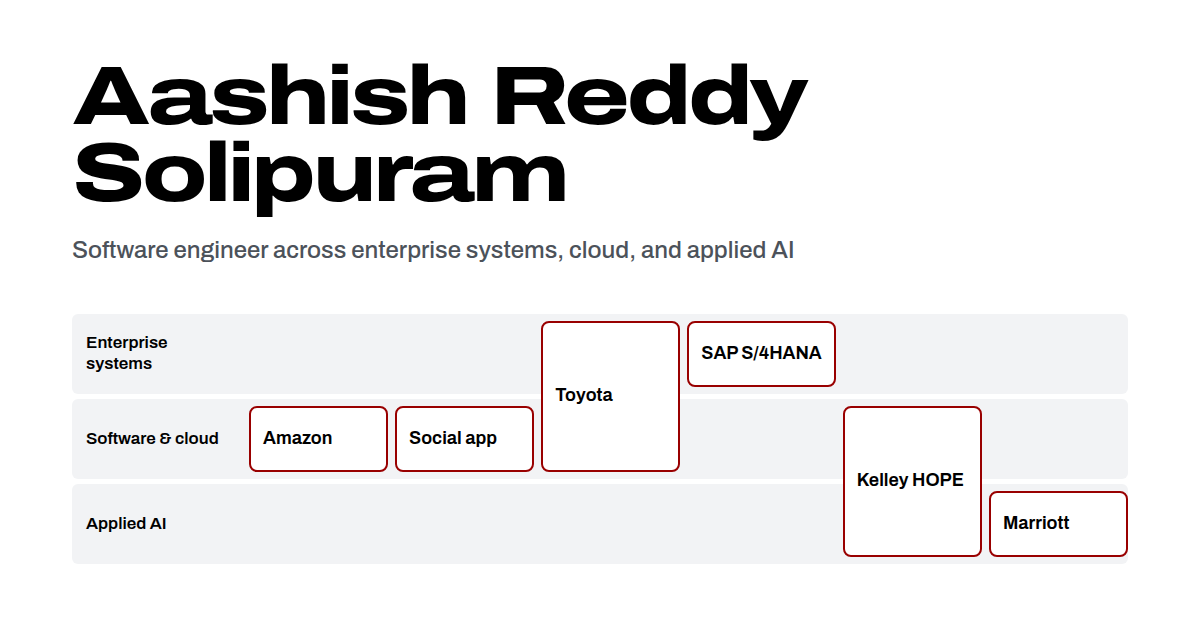
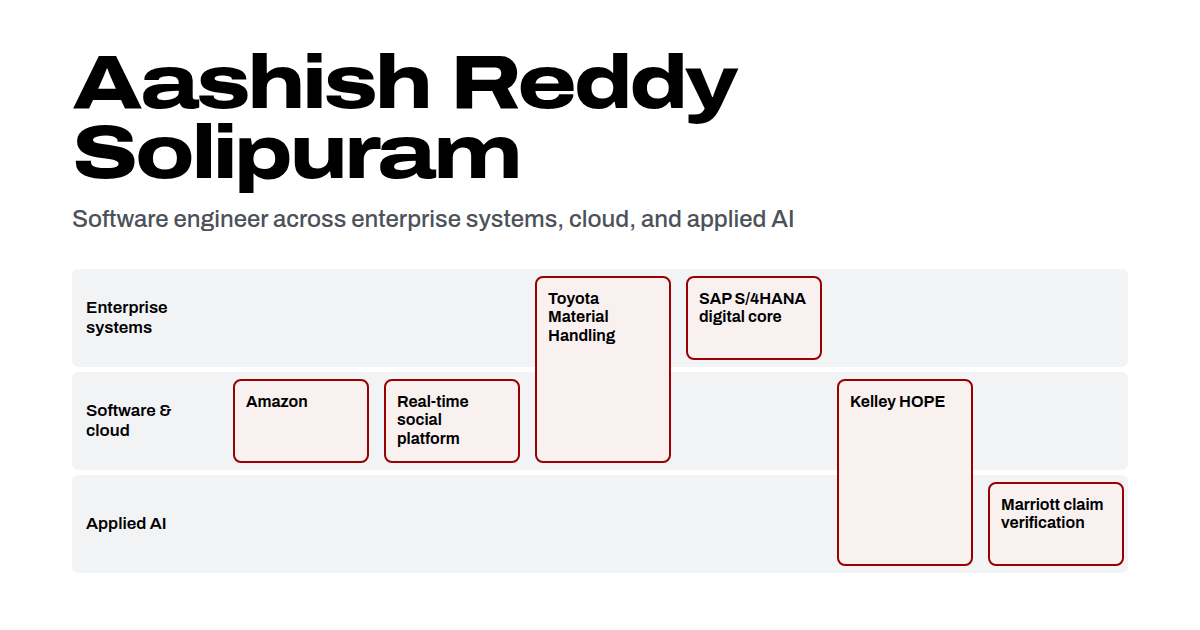
Fix swimlane alignment and give every box a full name
- Boxes now sit a fixed inset inside their lane, so edges line up across
  the grid; lanes grow to fit content and boxes in a lane stay equal height
- Year labels become underlines over their columns instead of dashed lines
  cutting through boxes
- Each box shows dates, a full name, and what it was (e.g. "Real-time
  social platform, Full-stack web app")
- Vertical layout below 1000px; condensed Archivo in narrow phone boxes so
  long words never break mid-word
- Audit fixes: neutral project labels, clearer tool lines, preload body
  font, sitemap lastmod, preview image matches the new names

Changed region(s): [[0.0617, 0.0905, 0.9558, 0.9048], [0.0617, 0.4825, 0.1542, 0.6032]]

diff --git a/index.html b/index.html
@@ -33,6 +33,7 @@
 <link rel="icon" href="favicon.svg" type="image/svg+xml">
 <link rel="apple-touch-icon" href="apple-touch-icon.png">
 <link rel="preload" href="assets/fonts/archivo-latin.woff2" as="font" type="font/woff2" crossorigin>
+<link rel="preload" href="assets/fonts/source-serif-4-latin.woff2" as="font" type="font/woff2" crossorigin>
 <script>document.documentElement.classList.add("js");</script>
 <script type="application/ld+json">
 {
@@ -175,35 +176,40 @@
 
   /* Swimlane diagram. Each element sets --along (position on the time axis) and --across (its lanes);
      on wide screens time runs left to right, on phones it runs top to bottom. */
-  .pool { margin-top: clamp(48px, 6vw, 72px); }
+  /* Every box sits the same 8px inside its lane band, so top, bottom, and side edges line up across the grid.
+     Lanes have one fixed height, and box text is always top-aligned: date, name, then what it was. */
+  .pool { margin-top: clamp(48px, 6vw, 72px); --inset: 8px; }
   .lanes-grid {
-    display: grid; gap: 6px 8px;
-    grid-template-columns: 148px repeat(6, minmax(0, 1fr));
-    grid-template-rows: auto repeat(3, minmax(84px, auto));
+    display: grid; column-gap: 0; row-gap: 6px;
+    grid-template-columns: 136px repeat(6, minmax(0, 1fr));
+    grid-template-rows: auto repeat(3, minmax(128px, auto));
   }
   .lanes-grid > * { grid-column: var(--along); grid-row: var(--across); min-width: 0; }
-  .band { background: var(--lane); border-radius: 6px; }
-  .lane-name {
-    align-self: center; padding: 0 14px;
-    font: 600 14px/1.25 var(--display);
-  }
+  .band { background: var(--lane); border-radius: 8px; }
+  .lane-name { align-self: center; padding: 0 16px; font: 650 14px/1.25 var(--display); }
   .year {
-    border-left: 1px dashed var(--rule); padding: 0 0 10px 10px;
-    font: 600 13px/1 var(--display); color: var(--faint); font-variant-numeric: tabular-nums;
+    margin: 0 calc(var(--inset) / 2) 4px; padding-bottom: 8px; border-bottom: 1.5px solid var(--rule);
+    font: 650 13px/1 var(--display); color: var(--muted); font-variant-numeric: tabular-nums;
   }
+  .year.first { margin-left: var(--inset); }
+  .year.last { margin-right: var(--inset); }
   .node {
-    position: relative; z-index: 1; margin: 8px 0;
-    display: flex; flex-direction: column; justify-content: center; gap: 3px;
-    padding: 10px 12px; border: 1.5px solid var(--crimson); border-radius: 8px;
-    background: var(--paper); text-decoration: none;
+    position: relative; z-index: 1;
+    margin: var(--inset) calc(var(--inset) / 2);
+    display: flex; flex-direction: column; gap: 4px;
+    padding: 12px 12px 14px; border: 1.5px solid var(--crimson); border-radius: 6px;
+    background: color-mix(in srgb, var(--crimson) 6%, var(--paper));
+    text-decoration: none; overflow-wrap: break-word;
     transition: background-color .15s, color .15s;
     animation: node-in .45s cubic-bezier(.2, .7, .2, 1) both;
     animation-delay: calc(var(--i) * 90ms + 120ms);
   }
-  .node strong { font: 650 14.5px/1.2 var(--display); }
-  .node span { font: 400 12.5px/1.25 var(--display); color: var(--muted); font-variant-numeric: tabular-nums; }
+  .lanes-grid > .node:last-child { margin-right: var(--inset); }
+  .node .d { font: 500 12px/1.2 var(--display); color: var(--muted); font-variant-numeric: tabular-nums; }
+  .node strong { font: 650 15px/1.2 var(--display); letter-spacing: -.005em; }
+  .node .k { font: 400 13px/1.3 var(--display); color: var(--muted); }
   .node:hover, .node:focus-visible { background: var(--crimson); color: var(--on-crimson); }
-  .node:hover span, .node:focus-visible span { color: inherit; }
+  .node:hover .d, .node:hover .k, .node:focus-visible .d, .node:focus-visible .k { color: inherit; }
   @keyframes node-in { from { opacity: 0; transform: translateX(-10px); } }
   .pool figcaption { margin-top: 14px; font: 400 14px/1.5 var(--display); color: var(--muted); max-width: 60ch; }
 
@@ -264,7 +270,32 @@
     .node { animation: none; }
   }
 
-  /* Phones: the diagram turns so time runs down the page and the lanes become columns. */
+  /* Below 1000px the diagram turns so time runs down the page and the lanes become columns. */
+  @media (max-width: 1000px) {
+    .pool { --inset: 5px; }
+    .lanes-grid {
+      column-gap: 4px; row-gap: 0;
+      grid-template-columns: 38px repeat(3, minmax(0, 1fr));
+      grid-template-rows: auto repeat(6, auto);
+    }
+    .lanes-grid > * { grid-column: var(--across); grid-row: var(--along); }
+    .lane-name { align-self: end; padding: 10px 4px; font-size: 12px; text-align: center; }
+    .year, .year.first {
+      margin: calc(var(--inset) / 2) 6px calc(var(--inset) / 2) 0; padding: 4px 0 0;
+      border-bottom: 0; border-right: 1.5px solid var(--rule); font-size: 12px;
+    }
+    .year.first { margin-top: var(--inset); }
+    .node, .lanes-grid > .node:last-child { margin: calc(var(--inset) / 2) var(--inset); padding: 9px 9px 11px; gap: 3px; }
+    .node { hyphens: auto; -webkit-hyphens: auto; }
+    .lanes-grid > .node:nth-of-type(1) { margin-top: var(--inset); }
+    .lanes-grid > .node:last-child { margin-bottom: var(--inset); }
+    .node strong { font-size: 13.5px; }
+    .node .d { font-size: 11.5px; }
+    .node .k { font-size: 12px; }
+    .node .y { display: none; }
+    @keyframes node-in { from { opacity: 0; transform: translateY(-8px); } }
+  }
+
   @media (max-width: 720px) {
     body { font-size: 16.5px; }
     .wrap {
@@ -275,22 +306,17 @@
     .site-nav ul .hide-sm { display: none; }
     .mark { font-size: 15px; font-stretch: 105%; }
 
-    .lanes-grid {
-      gap: 6px 5px;
-      grid-template-columns: 40px repeat(3, minmax(0, 1fr));
-      grid-template-rows: auto repeat(6, minmax(62px, auto));
-    }
-    .lanes-grid > * { grid-column: var(--across); grid-row: var(--along); }
-    .lane-name { align-self: end; padding: 8px 6px 10px; font-size: 12.5px; text-align: center; }
-    .year { border-left: 0; border-top: 1px dashed var(--rule); padding: 8px 0 0; font-size: 12px; }
-    .node { margin: 0 4px; padding: 8px 8px; border-radius: 7px; }
-    .node strong { font-size: 13px; }
-    .node span { font-size: 11.5px; }
-    @keyframes node-in { from { opacity: 0; transform: translateY(-8px); } }
-
     h2 { margin-bottom: 28px; }
     .list { gap: 44px; }
     .entry-head { flex-direction: column; }
+  }
+  @media (max-width: 520px) {
+    .lanes-grid { grid-template-columns: 30px repeat(3, minmax(0, 1fr)); column-gap: 3px; }
+    .node, .lanes-grid > .node:last-child { padding: 8px 7px 10px; margin-left: 3px; margin-right: 3px; }
+    .node strong, .node .k, .node .d { font-stretch: 78%; }
+    .node strong { font-size: 14px; }
+    .node .k { font-size: 12.5px; }
+    .lane-name { font-stretch: 85%; }
   }
   @media (max-width: 360px) {
     .mark { display: none; }
@@ -346,21 +372,21 @@
         <div class="band" style="--along: 1 / -1; --across: 3" aria-hidden="true"></div>
         <div class="band" style="--along: 1 / -1; --across: 4" aria-hidden="true"></div>
 
-        <div class="year" style="--along: 2; --across: 1 / -1" aria-hidden="true">2023</div>
-        <div class="year" style="--along: 3; --across: 1 / -1" aria-hidden="true">2024</div>
-        <div class="year" style="--along: 4; --across: 1 / -1" aria-hidden="true">2025</div>
-        <div class="year" style="--along: 5 / 8; --across: 1 / -1" aria-hidden="true">2026</div>
+        <div class="year first" style="--along: 2; --across: 1" aria-hidden="true">2023</div>
+        <div class="year" style="--along: 3; --across: 1" aria-hidden="true">2024</div>
+        <div class="year" style="--along: 4; --across: 1" aria-hidden="true">2025</div>
+        <div class="year last" style="--along: 5 / 8; --across: 1" aria-hidden="true">2026</div>
 
         <div class="lane-name" style="--along: 1; --across: 2" aria-hidden="true">Enterprise systems</div>
         <div class="lane-name" style="--along: 1; --across: 3" aria-hidden="true">Software &amp; cloud</div>
         <div class="lane-name" style="--along: 1; --across: 4" aria-hidden="true">Applied AI</div>
 
-        <a class="node" href="#amazon" style="--along: 2; --across: 3; --i: 0" aria-label="Amazon, July to December 2023. Software and cloud."><strong>Amazon</strong><span>Jul – Dec 2023</span></a>
-        <a class="node" href="#social" style="--along: 3; --across: 3; --i: 1" aria-label="Real-time social platform, July to October 2024. Software and cloud."><strong>Social app</strong><span>Jul – Oct 2024</span></a>
-        <a class="node" href="#toyota" style="--along: 4; --across: 2 / 4; --i: 2" aria-label="Toyota Material Handling, November to December 2025. Enterprise systems, software and cloud."><strong>Toyota</strong><span>Nov – Dec 2025</span></a>
-        <a class="node" href="#sap" style="--along: 5; --across: 2; --i: 3" aria-label="SAP S/4HANA configuration, April to May 2026. Enterprise systems."><strong>SAP S/4HANA</strong><span>Apr – May 2026</span></a>
-        <a class="node" href="#hope" style="--along: 6; --across: 3 / 5; --i: 4" aria-label="Kelley HOPE, May to August 2026. Software and cloud, applied AI."><strong>Kelley HOPE</strong><span>May – Aug 2026</span></a>
-        <a class="node" href="#marriott" style="--along: 7; --across: 4; --i: 5" aria-label="Marriott claim verification, August 2026 to now. Applied AI."><strong>Marriott</strong><span>Aug 2026 – now</span></a>
+        <a class="node" href="#amazon" style="--along: 2; --across: 3; --i: 0" aria-label="Amazon, payment services engineering, July to December 2023. Software and cloud."><span class="d">Jul – Dec<span class="y"> 2023</span></span><strong>Amazon</strong><span class="k">Payment services engineering</span></a>
+        <a class="node" href="#social" style="--along: 3; --across: 3; --i: 1" aria-label="Real-time social platform, full-stack web app, July to October 2024. Software and cloud."><span class="d">Jul – Oct<span class="y"> 2024</span></span><strong>Real-time social platform</strong><span class="k">Full-stack web app</span></a>
+        <a class="node" href="#toyota" style="--along: 4; --across: 2 / 4; --i: 2" aria-label="Toyota Material Handling, IT transformation roadmap, November to December 2025. Enterprise systems, software and cloud."><span class="d">Nov – Dec<span class="y"> 2025</span></span><strong>Toyota Material Handling</strong><span class="k">IT transformation roadmap</span></a>
+        <a class="node" href="#sap" style="--along: 5; --across: 2; --i: 3" aria-label="SAP S/4HANA digital core, ERP configuration, April to May 2026. Enterprise systems."><span class="d">Apr – May<span class="y"> 2026</span></span><strong>SAP S/4HANA digital core</strong><span class="k">ERP configuration</span></a>
+        <a class="node" href="#hope" style="--along: 6; --across: 3 / 5; --i: 4" aria-label="Kelley HOPE, AI job-discovery platform, May to August 2026. Software and cloud, applied AI."><span class="d">May – Aug<span class="y"> 2026</span></span><strong>Kelley HOPE</strong><span class="k">AI job-discovery platform</span></a>
+        <a class="node" href="#marriott" style="--along: 7; --across: 4; --i: 5" aria-label="Marriott AI claim verification, Accenture capstone, August 2026 to now. Applied AI."><span class="d">Aug<span class="y"> 2026</span> – now</span><strong>Marriott claim verification</strong><span class="k">AI agent, Accenture capstone</span></a>
       </div>
       <figcaption>Each box is a role or project, placed in the areas of work it covered. Select one to read about it.</figcaption>
     </figure>
@@ -398,7 +424,7 @@
             <li>Cut daily socket exceptions from <b>30–40 to 2–3</b> by tracing recurring failures and tuning socket configurations.</li>
             <li>Built backend support for Hard Decline payment messaging, mapping warning codes to localized customer-facing strings and testing them in sandbox and integration environments.</li>
           </ul>
-          <p class="stack">Worked on AWS-based payment services.</p>
+          <p class="stack">Worked with AWS, stress and chaos testing, and sandbox and integration environments.</p>
         </article>
 
       </div>
@@ -430,7 +456,7 @@
             <h3>SAP S/4HANA digital core configuration</h3>
             <p class="when"><time datetime="2026-04">Apr</time> – <time datetime="2026-05">May 2026</time></p>
           </div>
-          <p class="role">Kelley course project for a $1.15B diagnostics manufacturer</p>
+          <p class="role">Kelley academic project for a $1.15B diagnostics manufacturer</p>
           <p class="in-lanes"><span class="glyph" aria-hidden="true"><i class="on"></i><i></i><i></i></span>Enterprise systems</p>
           <ul class="details">
             <li>Configured SAP S/4HANA across US and Singapore plants and six global sales offices, covering FI/CO, MM, PP, SD, and HR with multi-currency accounting under local standards.</li>
@@ -450,7 +476,7 @@
             <li>Authored a multi-year transformation roadmap covering end-state architecture, Active Directory and collaboration-tool consolidation, and legacy rationalization.</li>
             <li>Designed a financial intelligence architecture unifying data across disparate ERPs on Snowflake with AI-assisted cleansing for <b>SOX-compliant</b> reporting; delivered a working prototype, cost-benefit analysis, and whitepaper.</li>
           </ul>
-          <p class="stack">Built with Snowflake, around an SAP S/4HANA end-state architecture.</p>
+          <p class="stack">Worked with Snowflake and SAP S/4HANA.</p>
         </article>
 
         <article class="entry" id="social">
@@ -458,7 +484,7 @@
             <h3>Real-time social media platform</h3>
             <p class="when"><time datetime="2024-07">Jul</time> – <time datetime="2024-10">Oct 2024</time></p>
           </div>
-          <p class="role">Personal full-stack project</p>
+          <p class="role">Full-stack project</p>
           <p class="in-lanes"><span class="glyph" aria-hidden="true"><i></i><i class="on"></i><i></i></span>Software &amp; cloud</p>
           <ul class="details">
             <li>Developed a full-stack social app supporting auth, feeds, posts, replies, likes, follows, direct messages, real-time notifications, and media uploads.</li>
